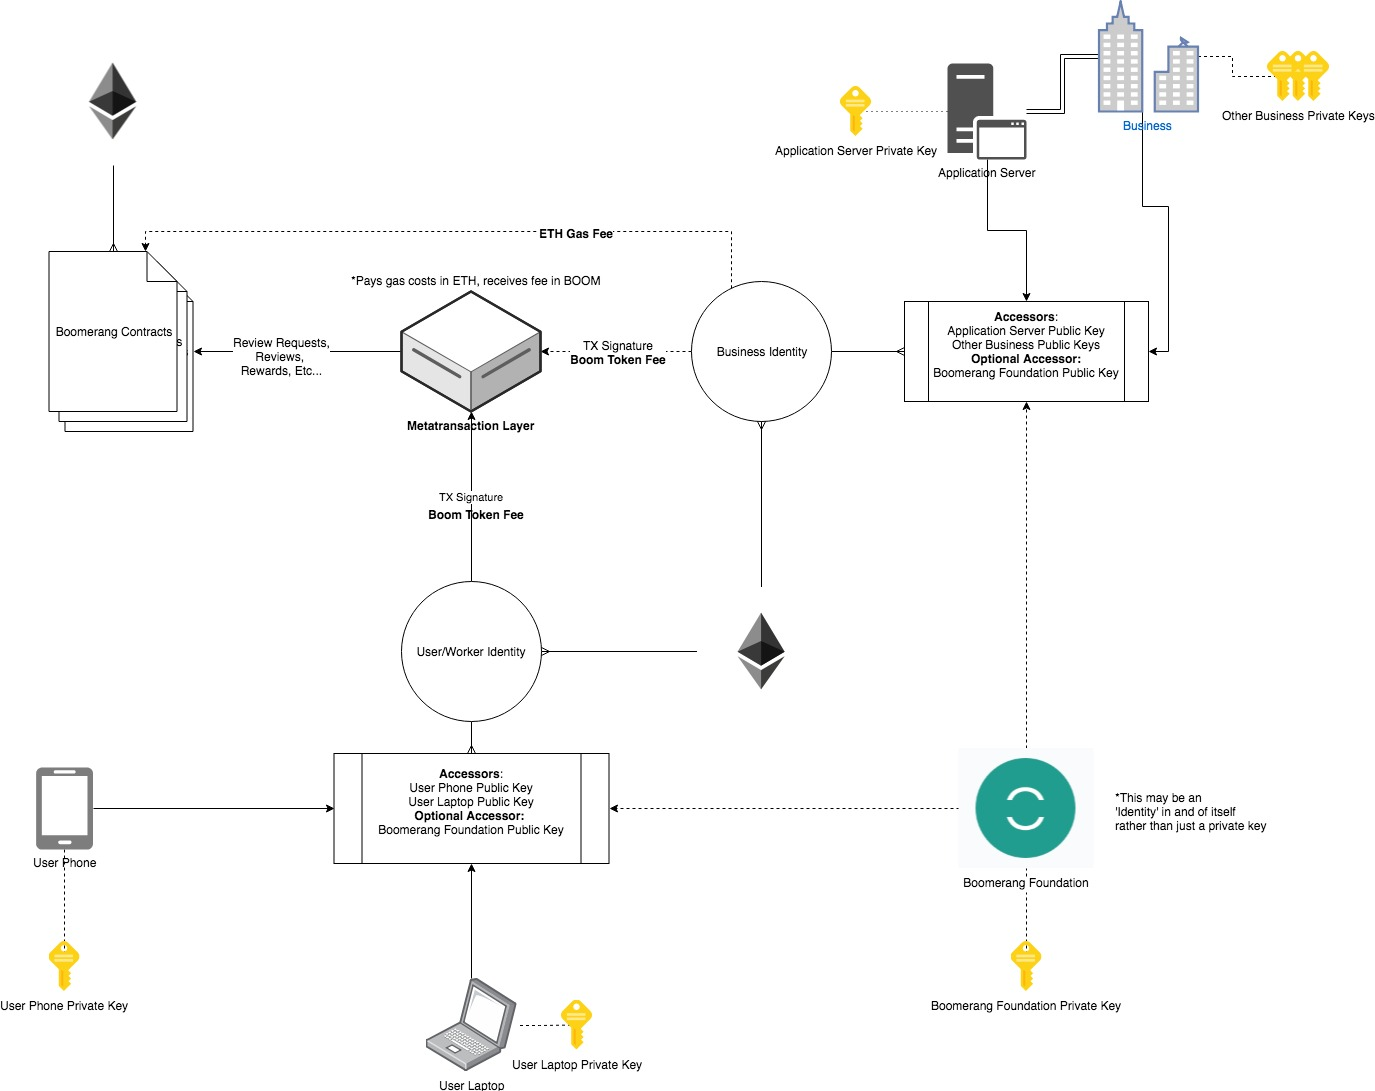
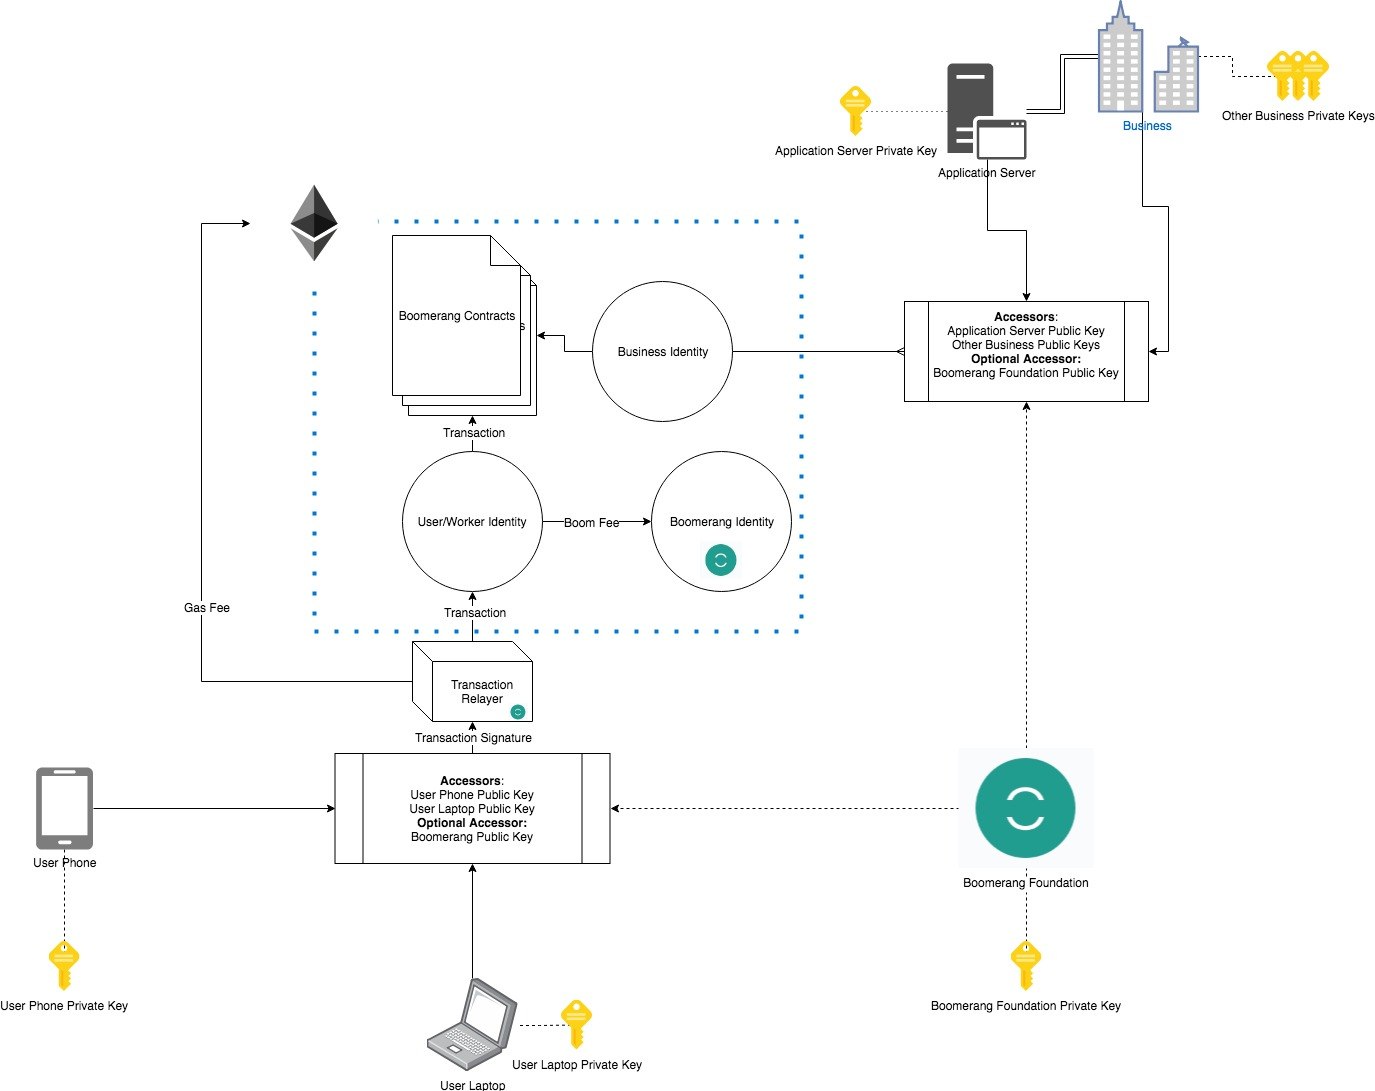
Adding architecture diagram

diff --git a/architecture/Overview.md b/architecture/Overview.md
@@ -1,3 +1,5 @@
 ![Boomerang Logo](https://github.com/BoomerangProject/boomerang-wiki/blob/master/images/logo.png "Boomerang Logo")
 # Boomerang Architecture Overview
 The Boomerang project plans to implement our own [Universal Login](https://github.com/BoomerangProject/boomerang-wiki/blob/master/architecture/UniversalLogin.md) and [Metatransaction Layer](https://github.com/BoomerangProject/boomerang-wiki/blob/master/architecture/MetaTransactionLayer.md) in order to create a seamless user expierence that mirrors the typical flow of a Web 2.0 Application.
+
+![Boomerang Architecture](imgs/BoomerangArchitecture.jpg "Boomerang Architecture Diagram")
